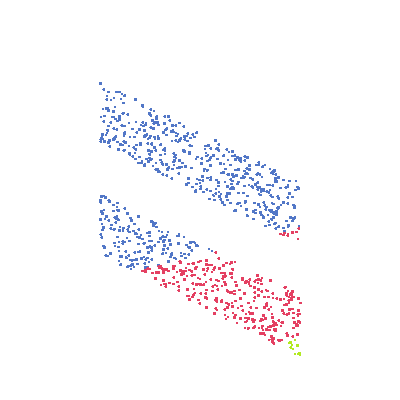
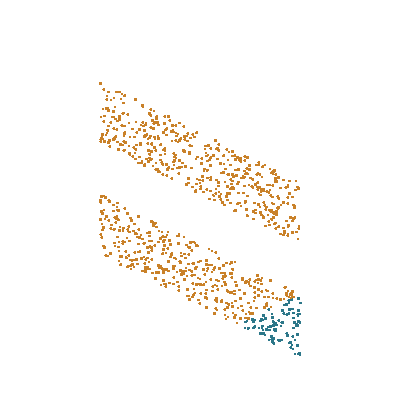
some fixes

Changed region(s): [[0.24, 0.48, 0.75, 0.9], [0.24, 0.27, 0.75, 0.6], [0.33, 0.24, 0.36, 0.27]]

diff --git a/Assignment 6/src/KMeansClustering.java b/Assignment 6/src/KMeansClustering.java
@@ -35,30 +35,35 @@ public class KMeansClustering extends AbstractMLAlgorithm {
     Random rand = new Random();
     double oldError = Double.POSITIVE_INFINITY;
     double newError = Double.POSITIVE_INFINITY;
-    // Select initial random range here for initial cluster centers
-    final int X_RANGE_MIN = 0;
-    final int X_RANGE_MAX = 400;
-    final int Y_RANGE_MIN = -500;
-    final int Y_RANGE_MAX = 300;
+
+    double xRangeMin = Double.POSITIVE_INFINITY;
+    double xRangeMax = Double.NEGATIVE_INFINITY;
+    double yRangeMin = Double.POSITIVE_INFINITY;
+    double yRangeMax = Double.NEGATIVE_INFINITY;
+
+    for (Point p : pointList) {
+      double pX = p.getX();
+      double pY = p.getY();
+
+      if (pX < xRangeMin) {
+        xRangeMin = pX;
+      }
+      if (pX > xRangeMax) {
+        xRangeMax = pX;
+      }
+      if (pY < yRangeMin) {
+        yRangeMin = pY;
+      }
+      if (pY > yRangeMax) {
+        yRangeMax = pY;
+      }
+    }
 
     for (int i = 0; i < k; i++) {
       Point center = new Point(
-              X_RANGE_MIN + (X_RANGE_MAX - X_RANGE_MIN) * rand.nextDouble(),
-              Y_RANGE_MIN + (Y_RANGE_MAX - Y_RANGE_MIN) * rand.nextDouble());
+              xRangeMin + (xRangeMax - xRangeMin) * rand.nextDouble(),
+              yRangeMin + (yRangeMax - yRangeMin) * rand.nextDouble());
       map.put(center, new ArrayList<>());
-    }
-
-    for (Point p : pointList) {
-      double minDist = Double.POSITIVE_INFINITY;
-      Point closestCenter = null;
-      for (Point center : map.keySet()) {
-        double distToCenter = getDistance(p, center);
-        if (distToCenter < minDist) {
-          minDist = distToCenter;
-          closestCenter = center;
-        }
-      }
-      map.get(closestCenter).add(p);
     }
     return getConvergedMap(map, oldError, newError);
   }
@@ -76,11 +81,27 @@ public class KMeansClustering extends AbstractMLAlgorithm {
 
   private PointMapError getConvergedMap(Map<Point, List<Point>> map, double oldError, double newError) {
     int convergenceCount = 0;
-    double percentageError = 1;
+    double percentageError = 100;
     do {
       if (convergenceCount >= 100) {
         break;
       }
+
+      // Assign points to centers in map
+      for (Point p : pointList) {
+        double minDist = Double.POSITIVE_INFINITY;
+        Point closestCenter = null;
+        for (Point center : map.keySet()) {
+          double distToCenter = getDistance(p, center);
+          if (distToCenter < minDist) {
+            minDist = distToCenter;
+            closestCenter = center;
+          }
+        }
+        map.get(closestCenter).add(p);
+      }
+
+      // Calculates new center point at center of all points
       Map<Point, List<Point>> newMap = new HashMap<>(400);
       for (List<Point> clusterPoints : map.values()) {
         double sumX = 0.0;
